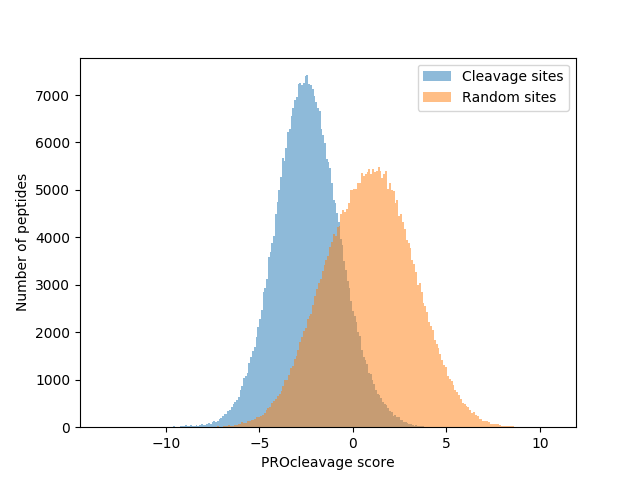
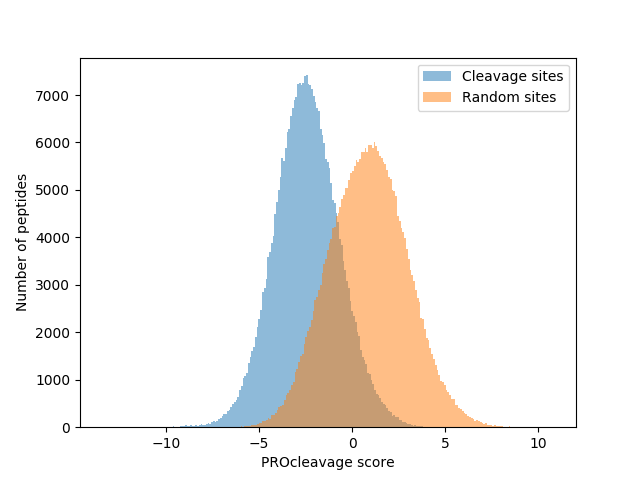
Fixing, hist and mcc functions

diff --git a/predictor/core/score_cleavage_sites_new.py b/predictor/core/score_cleavage_sites_new.py
@@ -1,13 +1,18 @@
-def random_peptides(large_uniprot_peptide, pre_post_cleavage_list, pre_post_cleavage_names, probability_dictionary_cleavage_region_list):
+def random_peptides(large_uniprot_peptide, pre_post_cleavage_list, pre_post_cleavage_names, probability_dictionary_cleavage_region_list, frequency_random_model):
     from random import choices
     amino_acid_list = list("ACDEFGHIKLMNPQRSTVWY")
+    frequency_random_model_list = list()
+    for amino_acid in amino_acid_list:
+        frequency = frequency_random_model[amino_acid]
+        frequency_random_model_list.append(frequency)
+    
     random_lenght_peptide = 30
     random_peptides = []
     original_number_peptides = len(large_uniprot_peptide)
     number_of_random_peptides = int(original_number_peptides + original_number_peptides/5)
     print("Making {} random peptides of lenght {}".format(number_of_random_peptides, random_lenght_peptide))
     for i in range(number_of_random_peptides):
-        random_peptide = "".join(choices(amino_acid_list, k=random_lenght_peptide))
+        random_peptide = "".join(choices(amino_acid_list, weights = frequency_random_model_list, k=random_lenght_peptide))
         random_peptides.append(random_peptide)
     print("Random peptides generated succesfully")
     random_scores = []
@@ -39,7 +44,7 @@ def random_peptides(large_uniprot_peptide, pre_post_cleavage_list, pre_post_clea
     print("{} / {} random peptides scored, using {}".format(random_scored_peptides_succesfully, number_of_random_peptides, len(exact_name_random_peptides)))
     return exact_name_random_peptides
 
-def scoring_peptides(large_uniprot_peptide, pre_post_cleavage_list, pre_post_cleavage_names, probability_dictionary_cleavage_region_list):
+def scoring_peptides(large_uniprot_peptide, pre_post_cleavage_list, pre_post_cleavage_names, probability_dictionary_cleavage_region_list, frequency_random_model):
     amino_acid_list = list("ACDEFGHIKLMNPQRSTVWY")
     scored_dict = {}
     print("Scoring cleavage peptides")
@@ -63,7 +68,7 @@ def scoring_peptides(large_uniprot_peptide, pre_post_cleavage_list, pre_post_cle
         scored_dict.setdefault("Cleavage sites", []).append(min_score)
     print("Cleavage peptides scored succesfully")
     
-    random_scores = random_peptides(large_uniprot_peptide, pre_post_cleavage_list, pre_post_cleavage_names, probability_dictionary_cleavage_region_list)
+    random_scores = random_peptides(large_uniprot_peptide, pre_post_cleavage_list, pre_post_cleavage_names, probability_dictionary_cleavage_region_list, frequency_random_model)
     scored_dict.setdefault("Random sites", random_scores)
     
     return scored_dict

diff --git a/PROcleave.py b/PROcleave.py
@@ -7,7 +7,10 @@ from predictor.core import get_distribution_cleavage
 from predictor.core import score_cleavage_sites_new
 from predictor.general import save_pickle
 from predictor.general import save_file
-
+from predictor.general import plot_histogram
+from predictor.general import compute_mcc
+from scipy.stats import ks_2samp
+import matplotlib.pyplot as plt
 
 def main():
     ### IEDB ###
@@ -31,9 +34,6 @@ def main():
     print("Seeking for MS peptides into UniProt data...")
     adjacent_lenght = 5
     large_uniprot_peptide = seek_ms_uniprot.seeking_ms(iedb_data, uniprot_data, adjacent_lenght)
-    #frequency_dictionary_preadjacent = analyze_distribution.distribution_analyzer(large_uniprot_peptide, adjacent_lenght)
-    #analyze_distribution.distribution_plotter(frequency_dictionary_preadjacent, adjacent_lenght)
-    #frequency_random_model = random_model.random_model_all_peptides(large_uniprot_peptide)
     
     ### Random model from UniProt ###
     print("Computing random probabilities from UniProt...")
@@ -57,21 +57,17 @@ def main():
  
     ### Scoring MS peptides ###
     print("Scoring MS peptides...")
-    scored_dict = score_cleavage_sites_new.scoring_peptides(large_uniprot_peptide, pre_post_cleavage_list, pre_post_cleavage_names, probability_dictionary_cleavage_region_list)
-    from scipy.stats import ks_2samp
+    scored_dict = score_cleavage_sites_new.scoring_peptides(large_uniprot_peptide, pre_post_cleavage_list, pre_post_cleavage_names, probability_dictionary_cleavage_region_list, frequency_random_model)
+    
+    ### Computing KS and p-value ###
     print(ks_2samp(scored_dict["Cleavage sites"], scored_dict["Random sites"]))
 
-    import matplotlib.pyplot as plt
-    for position, scored_list in scored_dict.items():
-        plt.hist(scored_list, bins=200, label="{}".format(position), alpha=0.5)
-        plt.legend()
-    #plt.xlabel("PROcleave score {} left {} right".format("".join(map(str, pre_post_cleavage["left"])), "".join(map(str, (map(abs, pre_post_cleavage["right"]))))))
-    plt.xlabel("PROcleavage score")
-    plt.ylabel("Number of peptides")
-    plt.savefig("fig_PROcleave_4-3_4-3.png")
-    #plt.savefig("fig_PROcleave_{}_{}.png".format("".join(map(str, pre_post_cleavage["left"])), "".join(map(str, (map(abs, pre_post_cleavage["right"]))))))
-    plt.show()
-    
-    
+    ### Plotting histogram ###
+    plot_name = "fig_PROcleave_4-3_4-3.png"
+    plot_histogram.histogram_plotter(plot_name, scored_dict)
+
+    ### Computing MCC ###
+    compute_mcc.mcc_computer(scored_dict)
+
 if __name__ == "__main__":
     main()

diff --git a/predictor/general/compute_mcc.py b/predictor/general/compute_mcc.py
@@ -1,0 +1,21 @@
+
+def mcc_computer(scored_dict):
+    import numpy as np
+    print("Computing MCC...")
+    mcc_list = []
+    score_list = []
+    cleavaged_list = sorted(scored_dict["Cleavage sites"])
+    random_list = sorted(scored_dict["Random sites"])
+
+    for i in np.arange(-5, 0, 0.1):
+        TP = len([x for x in cleavaged_list if x <= i])
+        FP = len([x for x in random_list if x < i])
+        FN = len([x for x in cleavaged_list if x >= i])
+        TN = len([x for x in random_list if x > i])
+        MCC = round(((TP * TN) - (FP * FN)) / ((TP + FP)*(TP + FN)*(TN + FP)*(TN + FN))**0.5, 2)
+        mcc_list.append(MCC)
+        score_list.append(i)
+    max_mcc = max(mcc_list)
+    max_index = mcc_list.index(max_mcc)
+    max_score = score_list[max_index]
+    print("Highest MCC is {} at {} score".format(max_mcc, max_score))

diff --git a/predictor/general/plot_histogram.py b/predictor/general/plot_histogram.py
@@ -1,0 +1,8 @@
+def histogram_plotter(plot_name, scored_dict):
+    import matplotlib.pyplot as plt
+    for position, scored_list in scored_dict.items():
+        plt.hist(scored_list, bins=200, label="{}".format(position), alpha=0.5)
+        plt.legend()
+    plt.xlabel("PROcleavage score")
+    plt.ylabel("Number of peptides")
+    plt.savefig("fig_PROcleave_4-3_4-3.png")
